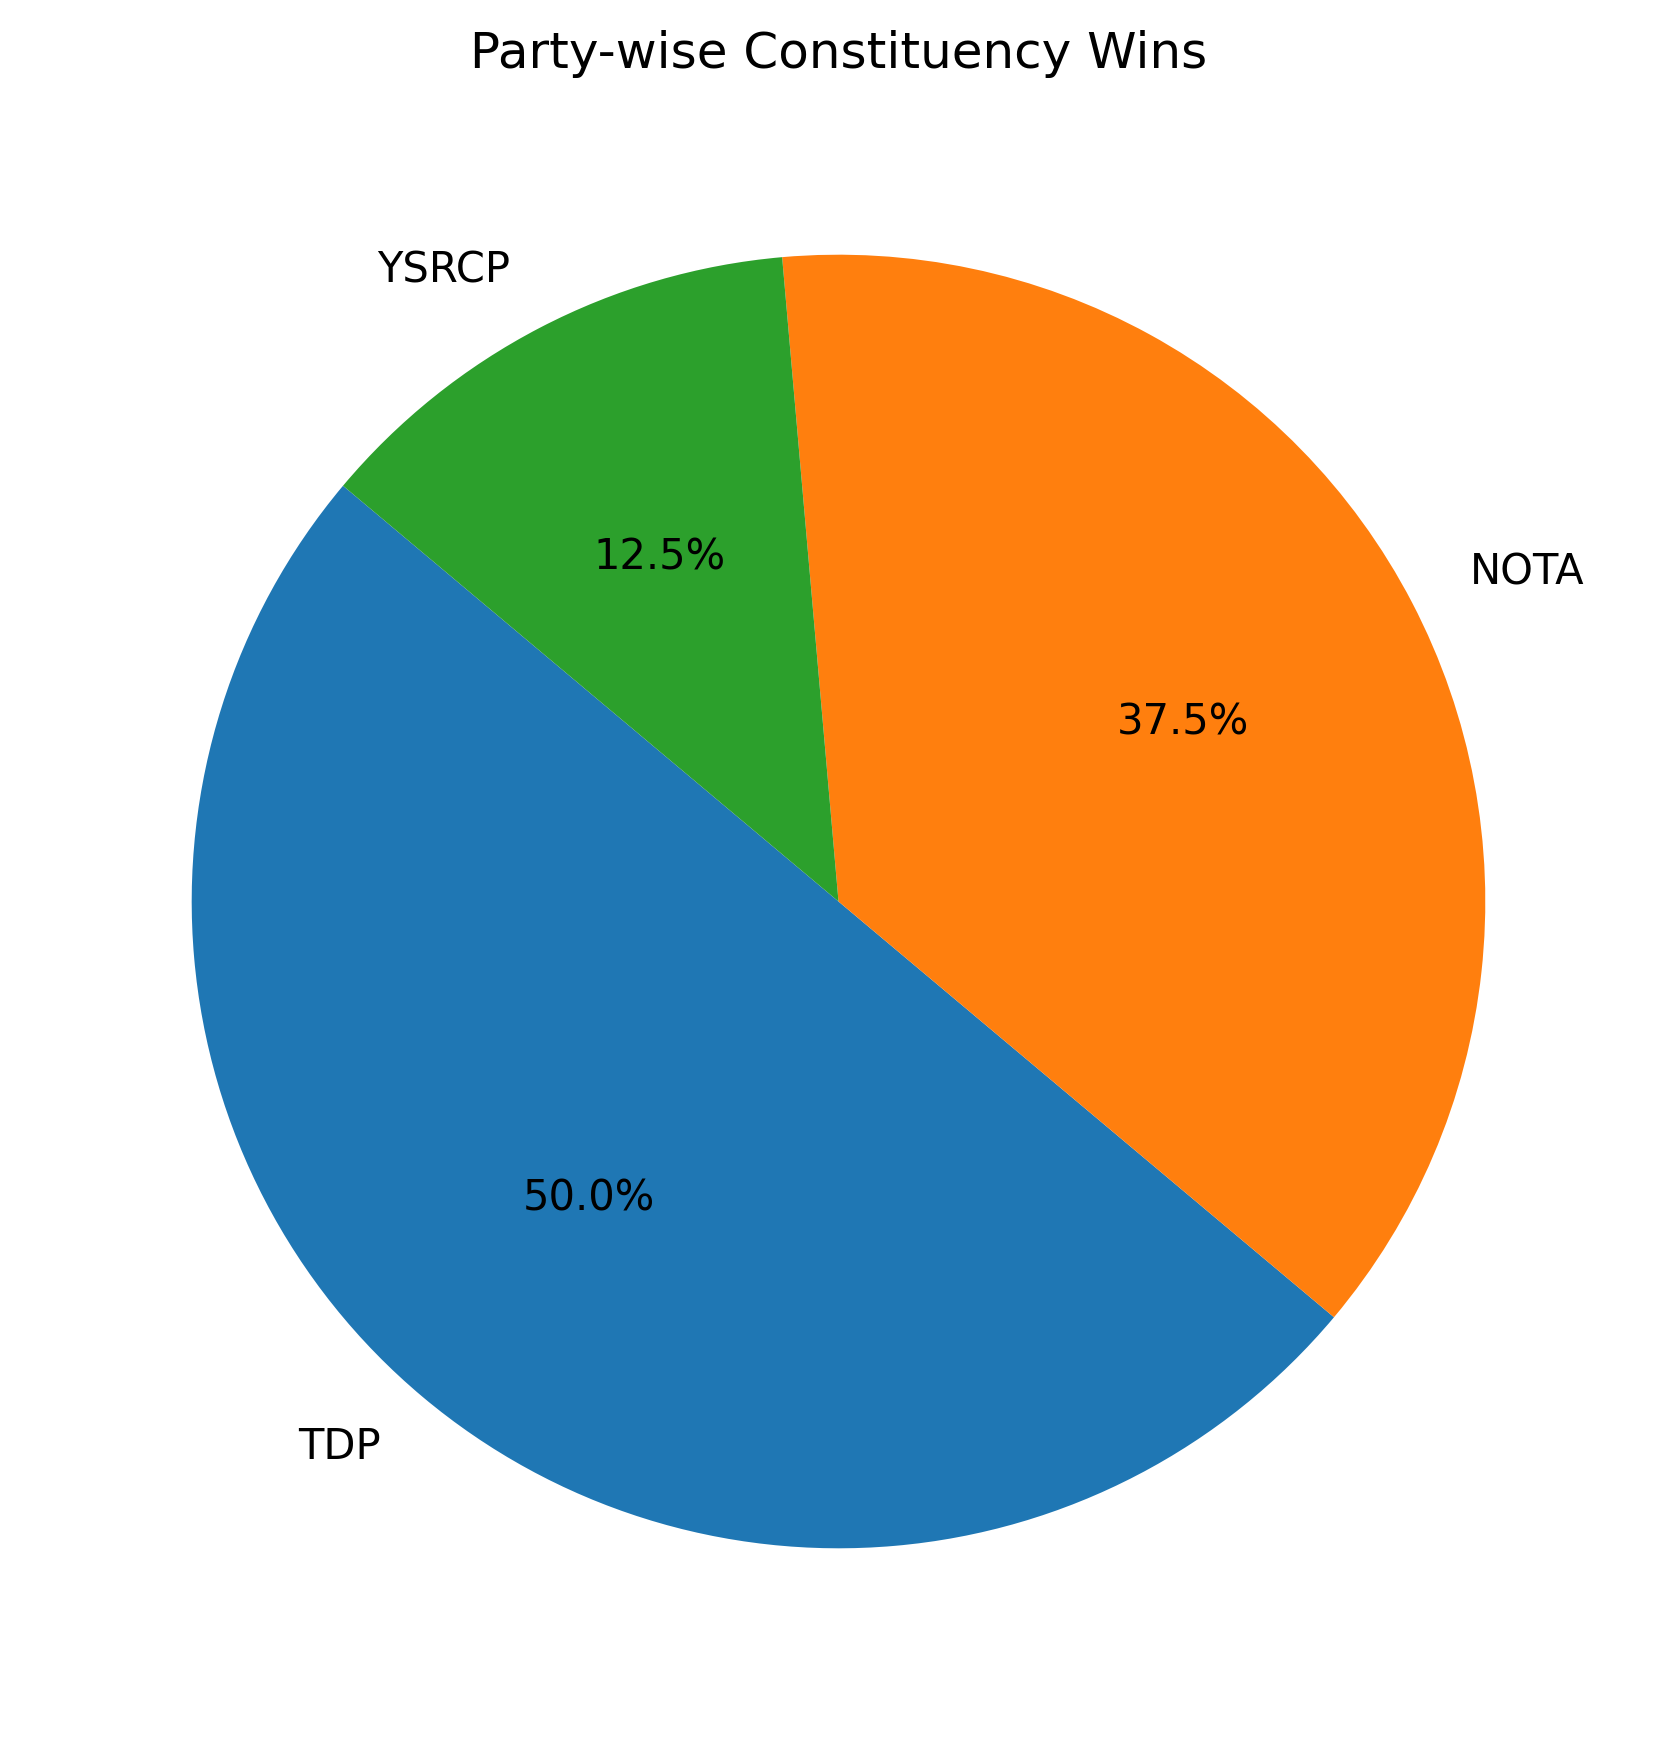
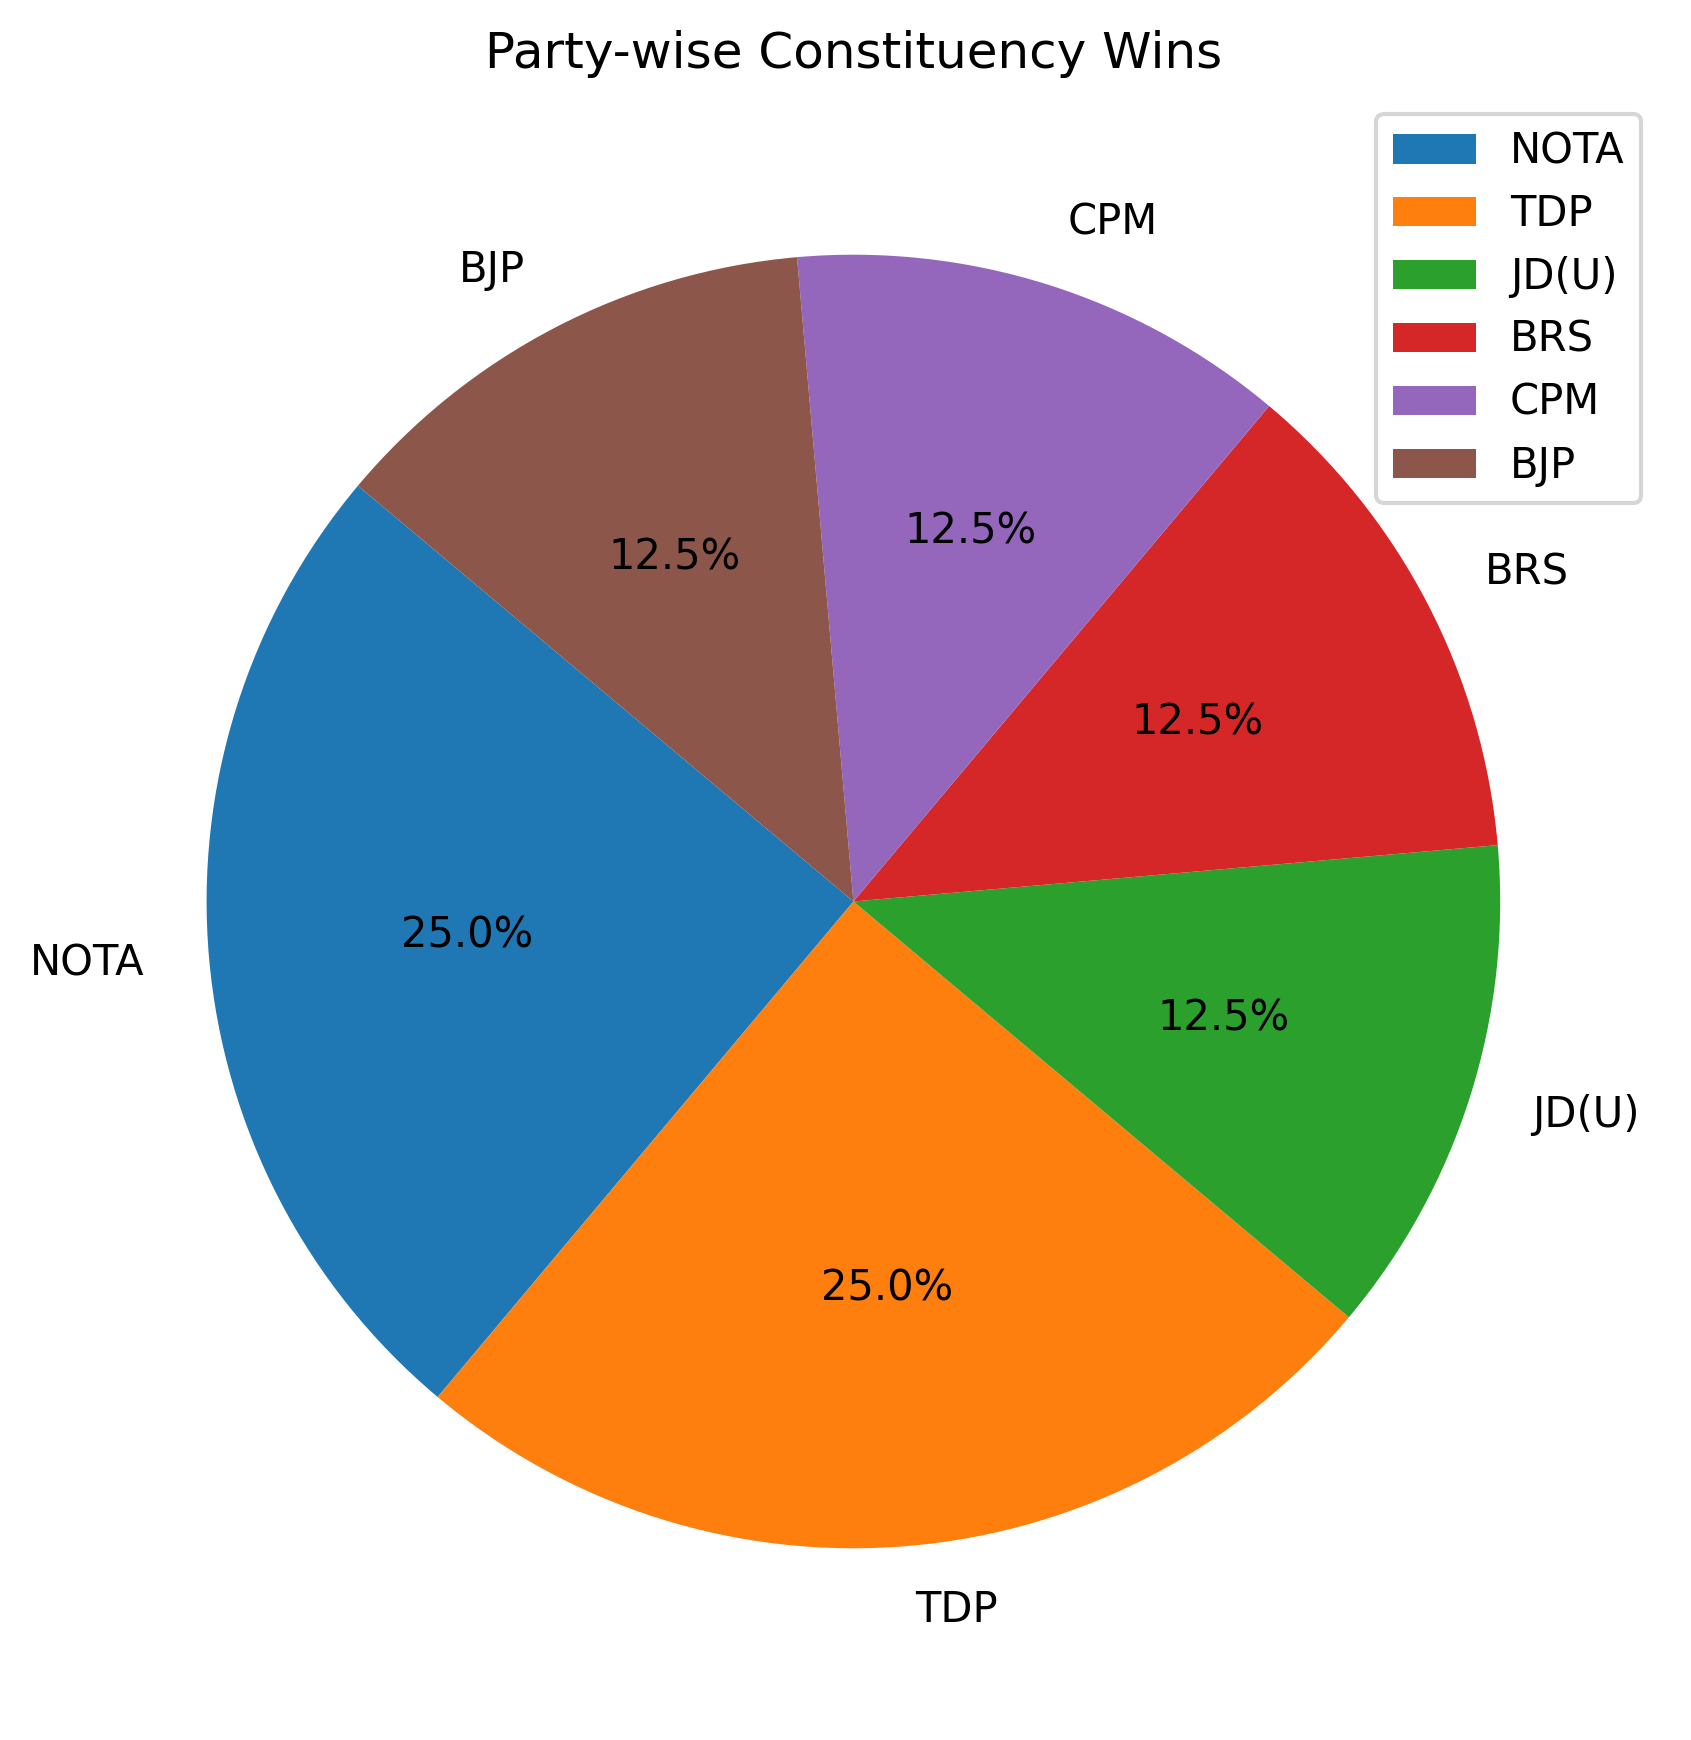
commit

diff --git a/results.py b/results.py
@@ -4,7 +4,7 @@ import matplotlib.pyplot as plt
 
 # Load simulated voting results
 
-votes_df = pd.read_csv("Data/polling_day.csv")
+votes_df = pd.read_csv("Data\\polling_day.csv")
 
 # Find winners per constituency
 # Count votes for each candidate in each constituency
@@ -15,8 +15,18 @@ results = (
 )
 
 # Find candidate with maximum votes in each constituency
-winners = results.loc[results.groupby("CON_ID")["PARTY_VOTED"].idxmax()]
 
+def party_winner(group):
+    max_votes = group["votes"].max()
+    top_candidates = group[group["votes"] == max_votes]
+
+    if len(top_candidates) > 1:
+        print(f"Tie in {group['CON_ID'].iloc[0]}! Deciding by lottery...")
+        return top_candidates.sample(1)  # random pick like real election
+    else:
+        return top_candidates
+
+winners = results.groupby("CON_ID", group_keys=False).apply(party_winner)
 # Constituency → Winning Candidate
 table_result = winners[["CON_ID", "CANDIDATE_VOTED"]]
 print("\n=== Election Results: Constituency vs Winning Candidate ===\n")
@@ -29,12 +39,13 @@ party_wins = winners["PARTY_VOTED"].value_counts()
 plt.figure(figsize=(7, 7))
 party_wins.plot.pie(autopct="%1.1f%%", startangle=140)
 plt.title("Party-wise Constituency Wins")
+plt.legend(party_wins.index, loc="best")
 plt.ylabel("")
 plt.savefig("party_piecharts.png", dpi=300, bbox_inches="tight")
 plt.show()
 
 # Majority party
-total_seats = len("CON_ID")  # should be 8
+total_seats = len(winners)# should be 8
 majority = total_seats // 2 + 1          # 5 seats needed for majority
 
 winner_party = None
@@ -47,3 +58,7 @@ if winner_party:
     print(f"The party that can form government is: {winner_party}")
 else:
     print("No single party has majority (Hung Assembly).")
+    
+summary_df = winners.groupby("PARTY_VOTED").size().reset_index(name="Seats Won")
+print("\n=== Party-wise Seat Summary ===\n")
+print(summary_df.to_string(index=False))
